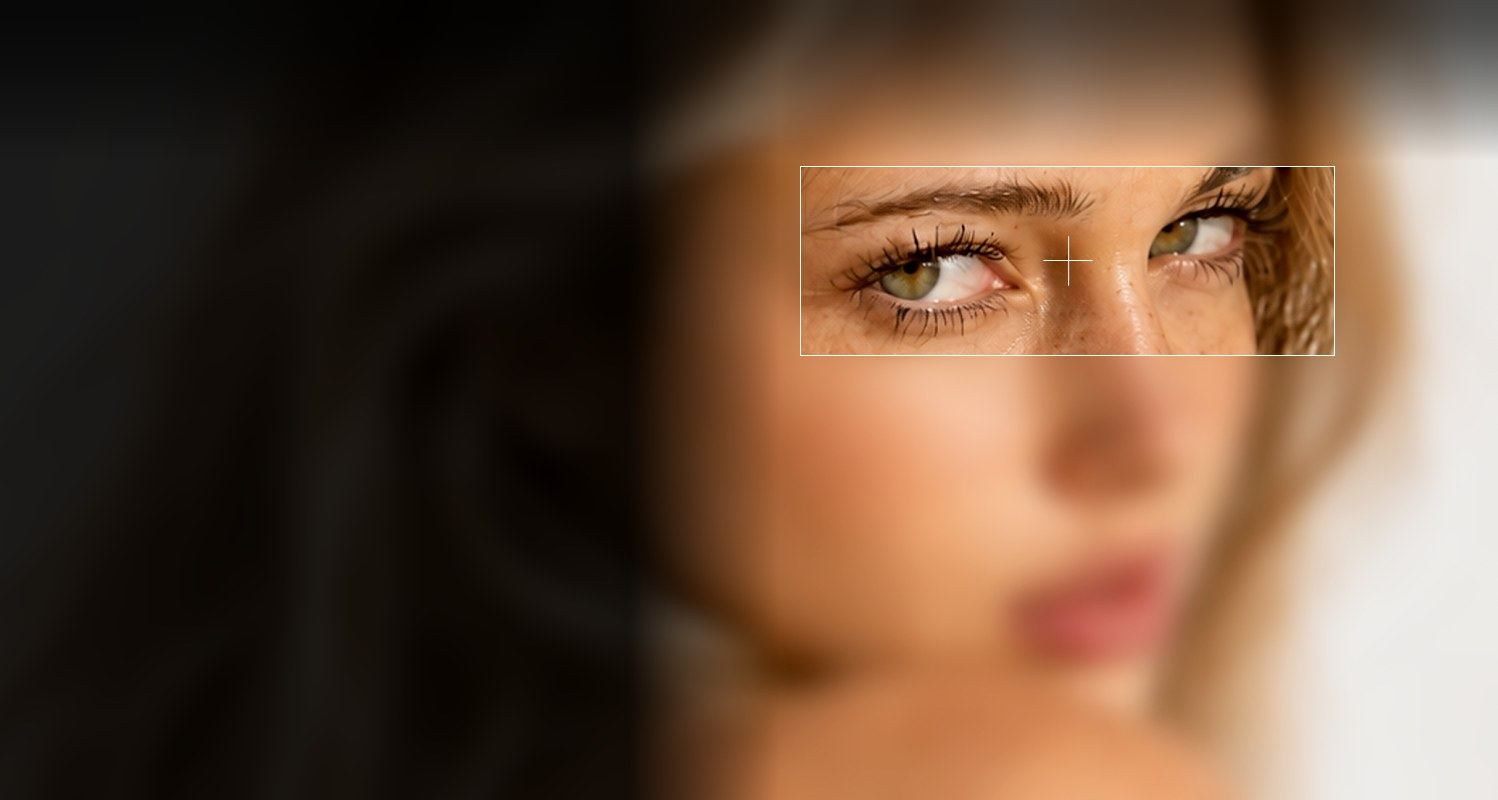
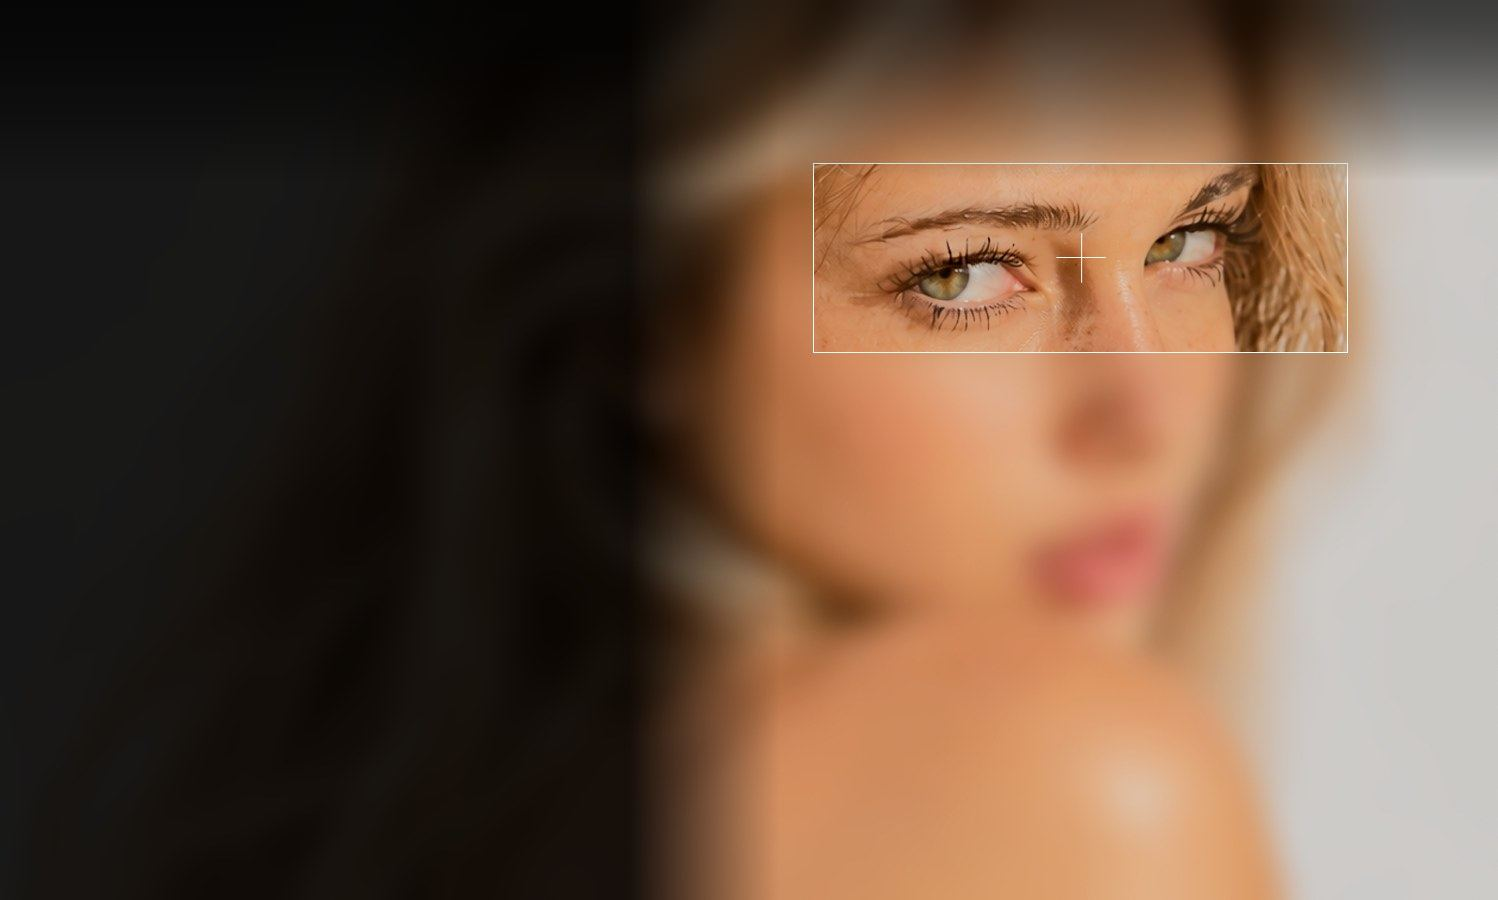
Hero: new first-screen photo (first screen2.png)

diff --git a/index.html b/index.html
@@ -727,7 +727,7 @@ html.drawer-open { overflow: hidden; }
     <div class="hero__media">
       <picture>
         <source media="(max-width: 899px)" srcset="assets/img/hero-mobile.jpg">
-        <img src="assets/img/hero.jpg" alt="A shopper's eyes in sharp focus while the rest of her face is blurred" data-dither width="1498" height="800" fetchpriority="high">
+        <img src="assets/img/hero.jpg" alt="A shopper's eyes in sharp focus while the rest of her face is blurred" data-dither width="1498" height="900" fetchpriority="high">
       </picture>
     </div>
     <div class="hero__text">
